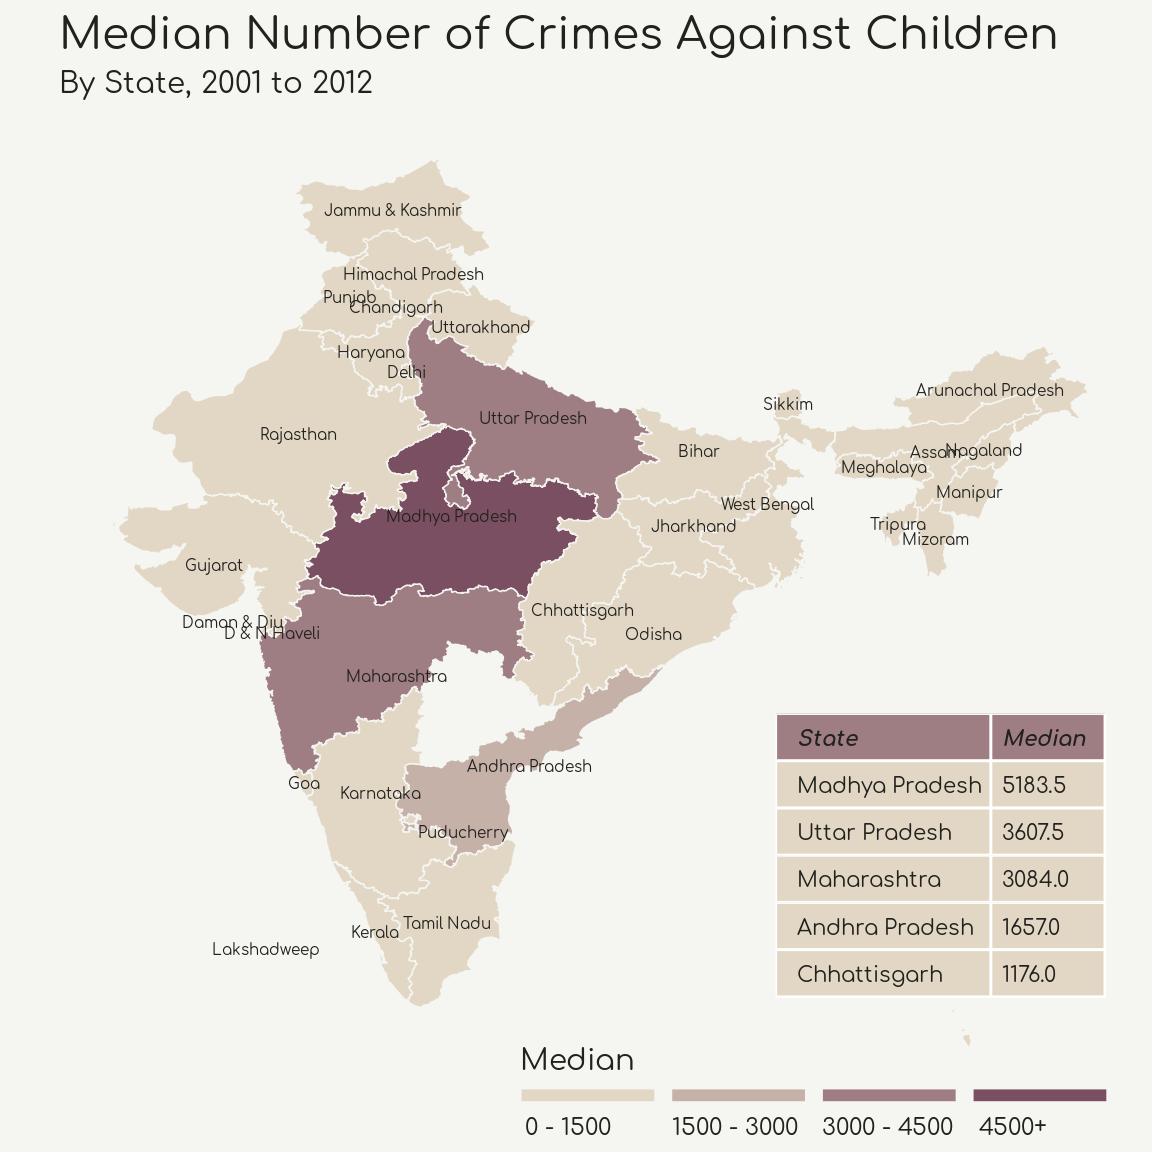
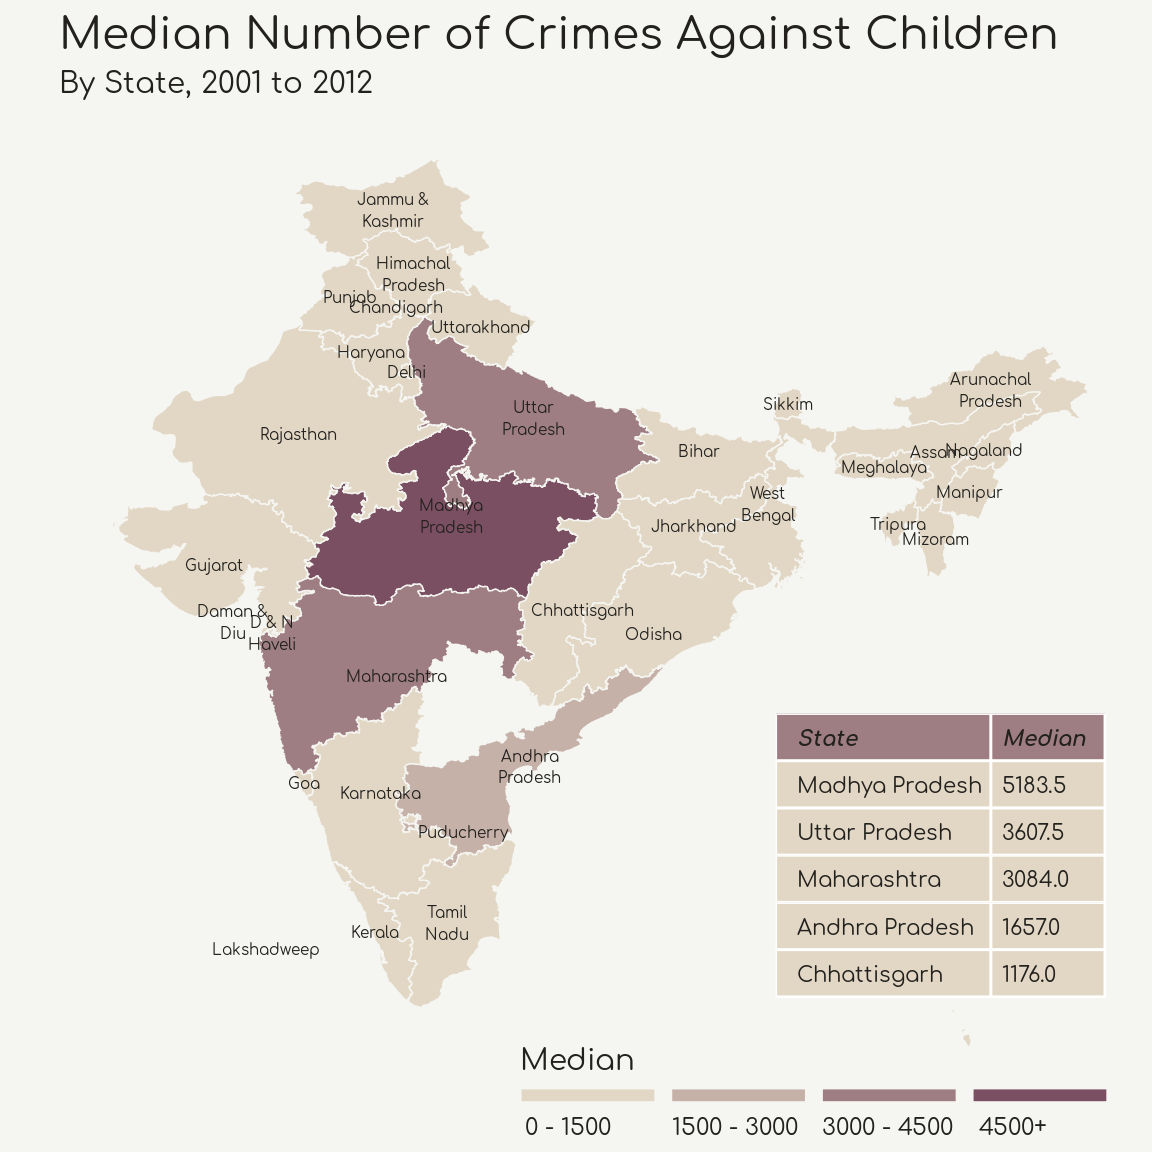
minor changes to 12-state bar charts

diff --git a/content/blog/2018-02-22-crime-against-children-in-india.html b/content/blog/2018-02-22-crime-against-children-in-india.html
@@ -214,14 +214,14 @@ kidnapping_plot &lt;- df %&gt;%
   filter(crime_head == &quot;Kidnapping And Abduction Of Children&quot;, state_ut %in% high_ka_states$state_ut) %&gt;%
   ggplot(aes(x=year,y=df, fill=state_ut, text = paste0(&quot;Year: &quot;, year,&quot;\nTotal: &quot;, df))) +
   geom_bar(stat=&#39;identity&#39;) + 
-    labs(title = &#39;Kidnapping And Abduction by State, 2001 - 2012&#39;, y = &#39;Number of Crimes&#39;, x=&#39;&#39;) +
-    scale_x_continuous(labels = function(x) as.integer(x)) +
-    facet_wrap(~state_ut) + 
-    scale_fill_manual(values = colorRampPalette(brewer.pal(8, &quot;Dark2&quot;))(top_k)) +
+  labs(title = &#39;Kidnapping And Abduction by State, 2001 - 2012&#39;, y = &#39;Number of Crimes&#39;, x=&#39;&#39;) +
+  scale_x_continuous(labels = function(x) as.integer(x), breaks = seq(2000,2012,3)) +
+  facet_wrap(~state_ut) + 
+  scale_fill_manual(values = colorRampPalette(brewer.pal(8, &quot;Dark2&quot;))(top_k)) +
   theme(legend.position=&#39;none&#39;)
 
 kidnapping_plot</code></pre>
-<p><img src="/blog/2018-02-22-crime-against-children-in-india_files/figure-html/kidnapping_by_state_all-1.png" width="864" /></p>
+<p><img src="/blog/2018-02-22-crime-against-children-in-india_files/figure-html/kidnapping_by_state_all-1.png" width="912" /></p>
 <p>Uttar Pradesh seems to stand out quite a bit, especially in 2012. Taking a closer look, we see it has had more than 4x the number of kidnappings than any other state in 2012!</p>
 <pre class="r"><code>lollipop_color &lt;- ghibli_palettes$MononokeMedium[4]
 
@@ -285,7 +285,7 @@ level_data %&gt;%
 <div id="total-crime-by-state" class="section level4">
 <h4>Total Crime By State</h4>
 <p>Shifting to a more macro view, we’ll take a look at total crimes by state over time. I select the top 12 states by cumulative total crime over the period. From the charts below, it appears that Madhya Pradesh and Maharashtra have had higher crime, but with low growth, over time. Crime in Uttar Pradesh, however, has been sporadic and grew significantly between 2010 and 2012.</p>
-<p><img src="/blog/2018-02-22-crime-against-children-in-india_files/figure-html/crimes_by_state-1.png" width="864" /></p>
+<p><img src="/blog/2018-02-22-crime-against-children-in-india_files/figure-html/crimes_by_state-1.png" width="912" /></p>
 <p>Again, I’m interested in average annual growth, but here I take a look at total crimes by state. Tamil Nadu comes out on top. That is likely because we’re dealing with smaller numbers, but the trajectory is still quite steep. Uttar Pradesh had an average annual growth in crime of about 6% from 2001 to 2012, but crime fell from 2001 to 2002. Average growth from 2002 to 2012 was about 14.4%, which is more than twice as fast as indicated, but still places in the lower half of the chart below.</p>
 <pre class="r"><code># Create vector to highlight first bar in chart
 gr_ch_cols &lt;- c(&quot;two&quot;, rep(&quot;one&quot;, 14))
@@ -474,8 +474,7 @@ colnames(median.table) &lt;- c(&quot;State&quot;, &quot;Median&quot;)
 cnames &lt;- aggregate(cbind(long, lat) ~ state, data=final.plt.med, FUN=function(x) mean(range(x)))
 
 # Process names by replacing last space with newline char
-# cnames$state &lt;- stri_replace_last_charclass(cnames$state, &quot;\\p{WHITE_SPACE}&quot;, &quot;\n&quot;)
-cnames$state &lt;- str_replace(cnames$state, &quot;\\s$&quot;,&quot;\\n&quot;)
+cnames$state &lt;- stri_replace_last_charclass(cnames$state, &quot;\\p{WHITE_SPACE}&quot;, &quot;\n&quot;)
 
 median_plot &lt;- ggplot() +
   geom_polygon(data = final.plt.med, 
